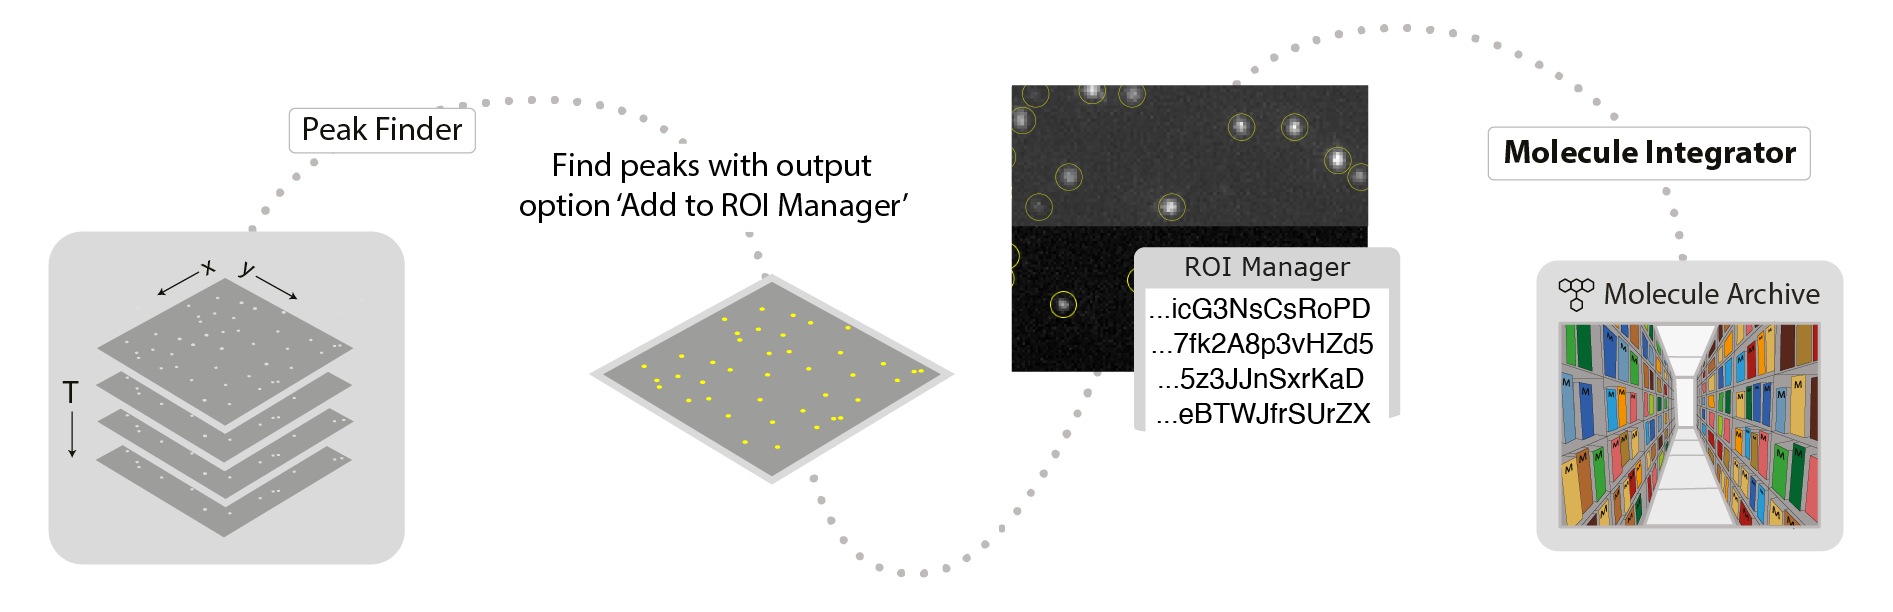
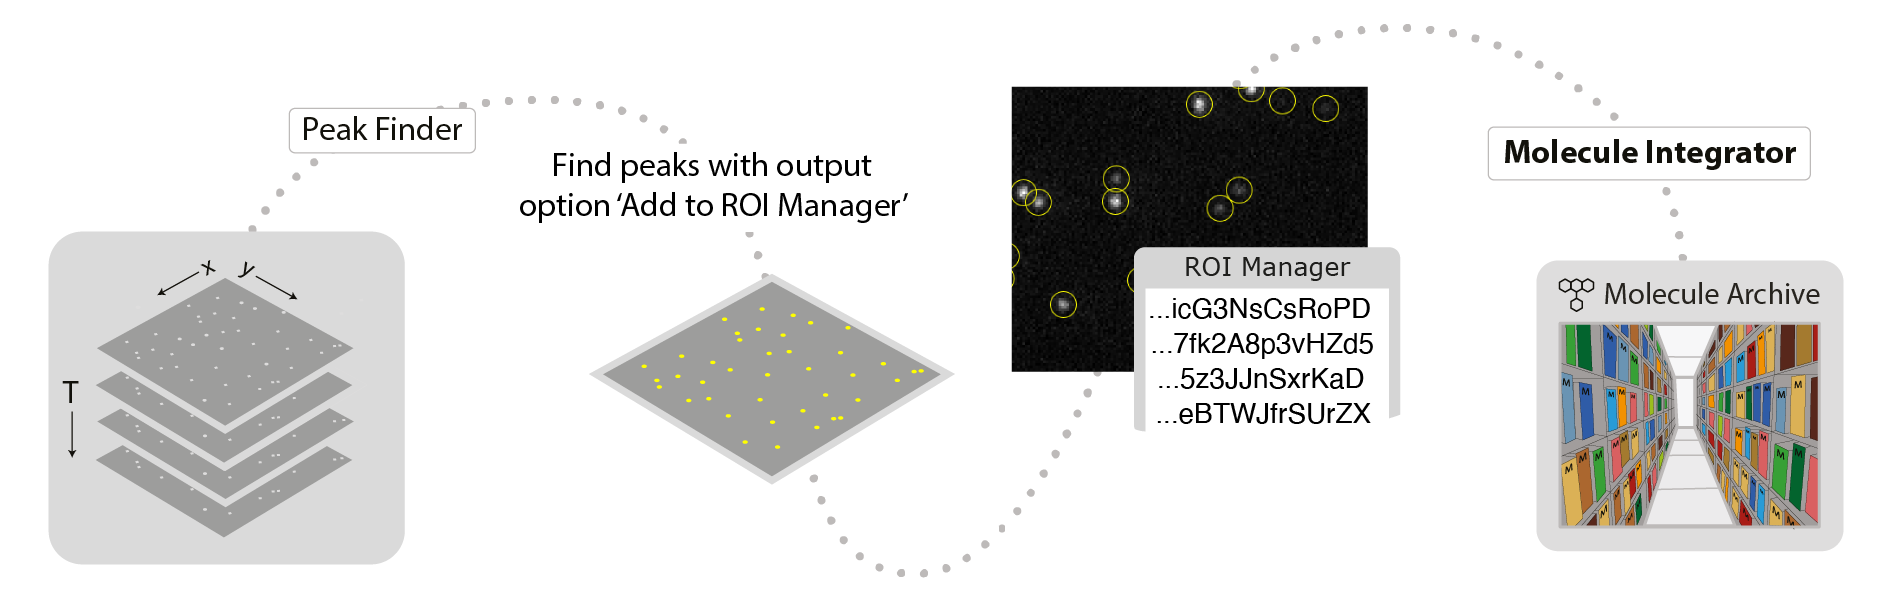
Molecule Integrators: Update images

Changed region(s): [[0.5298, 0.1242, 0.748, 0.3725]]

diff --git a/docs/image/MoleculeIntegratorMultiView.md b/docs/image/MoleculeIntegratorMultiView.md
@@ -58,7 +58,7 @@ The median background and mean background columns represent an estimate of the b
 
 * *MoleculeArchive* - A Single Molecule Archive in which each molecule record has the integrated fluorescence for all channels and regions specified. Additionally, the peak position is saved for each time point (T) and Time (s) information is added if discovered.
 
-<div style="text-align: center"><img  src='{{site.baseurl}}/docs/image/img/img9.png' width='400'/></div>
+<div style="text-align: center"><img  src='{{site.baseurl}}/docs/image/img/MultiViewIntegrationArchiveOutput.png' width='800'/></div>
 
 ### How to run this Command from a groovy script
 
